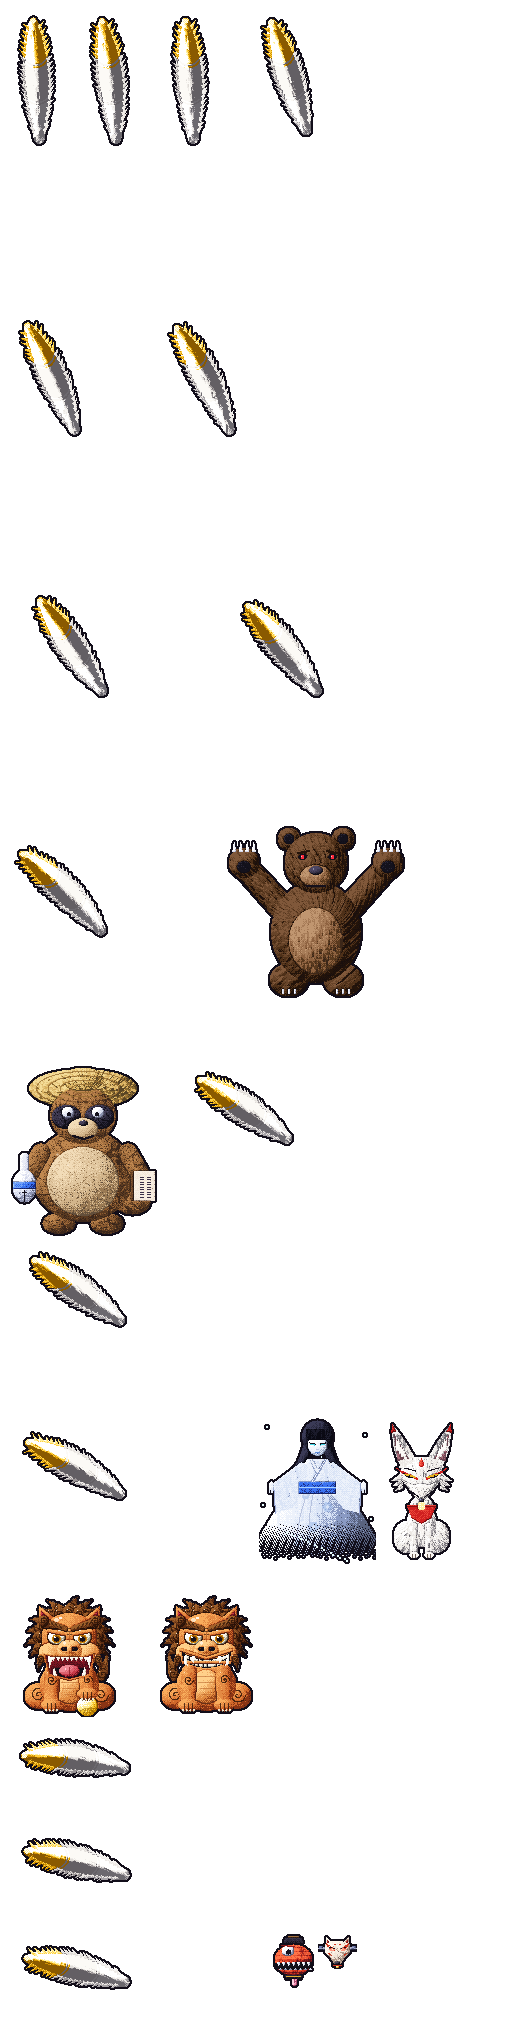
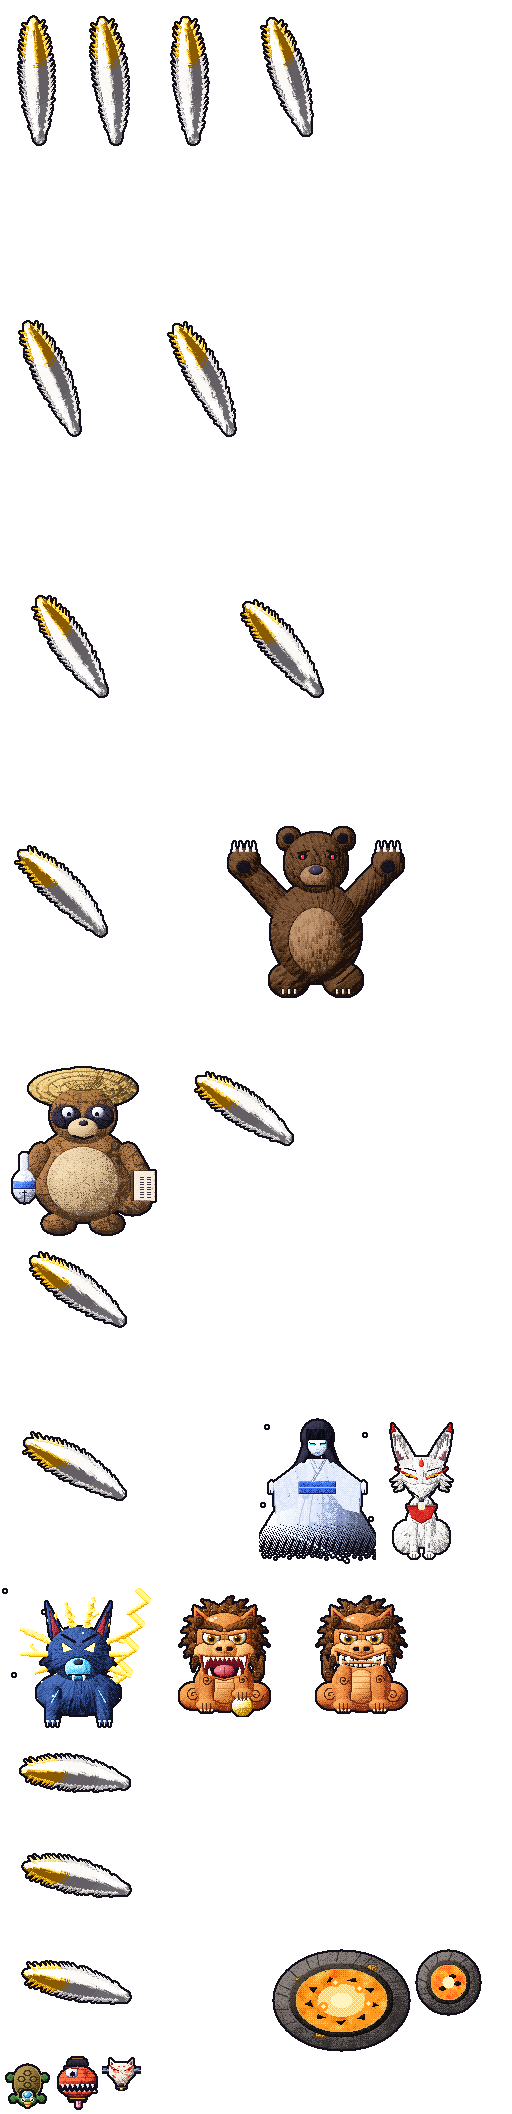
Kagoshima enemies at 540 px: lava bombs, tanegashima drone, black-vinegar jars, garappa, shirokuma, Raijū, Sakurajima's vents and crater
Claude-Session: https://claude.ai/code/session_01MRa5UEHufJmpkQZTQUStvb

diff --git a/src/game/enemyArt.js b/src/game/enemyArt.js
@@ -49,6 +49,10 @@ export const CITY_ANIMS = {
   yukionna: [four('yukionna'), 6], kuma_heart: [['kuma_heart_0', 'kuma_heart_1'], 3],
   plow_d: [four('plow_d'), 8], plow_r: [four('plow_r'), 8],
   ...Object.fromEntries(['red', 'blue', 'green'].map((c) => [`ramen_${c}`, [four(`ramen_${c}`), 5]])),
+  // Kagoshima
+  kazan: [four('kazan'), 8], kazan_s: [four('kazan_s'), 10], teppo: [four('teppo'), 10], kappa: [four('kappa'), 7],
+  ripple: [['ripple_0', 'ripple_1', 'ripple_2'], 6], raiju: [four('raiju'), 10],
+  vent: [['vent_0', 'vent_1'], 4], crater: [['crater_0', 'crater_1'], 3],
 };
 
 /** Kyūbi's tails: how many swaying frames each one has in the atlas it comes from. */
